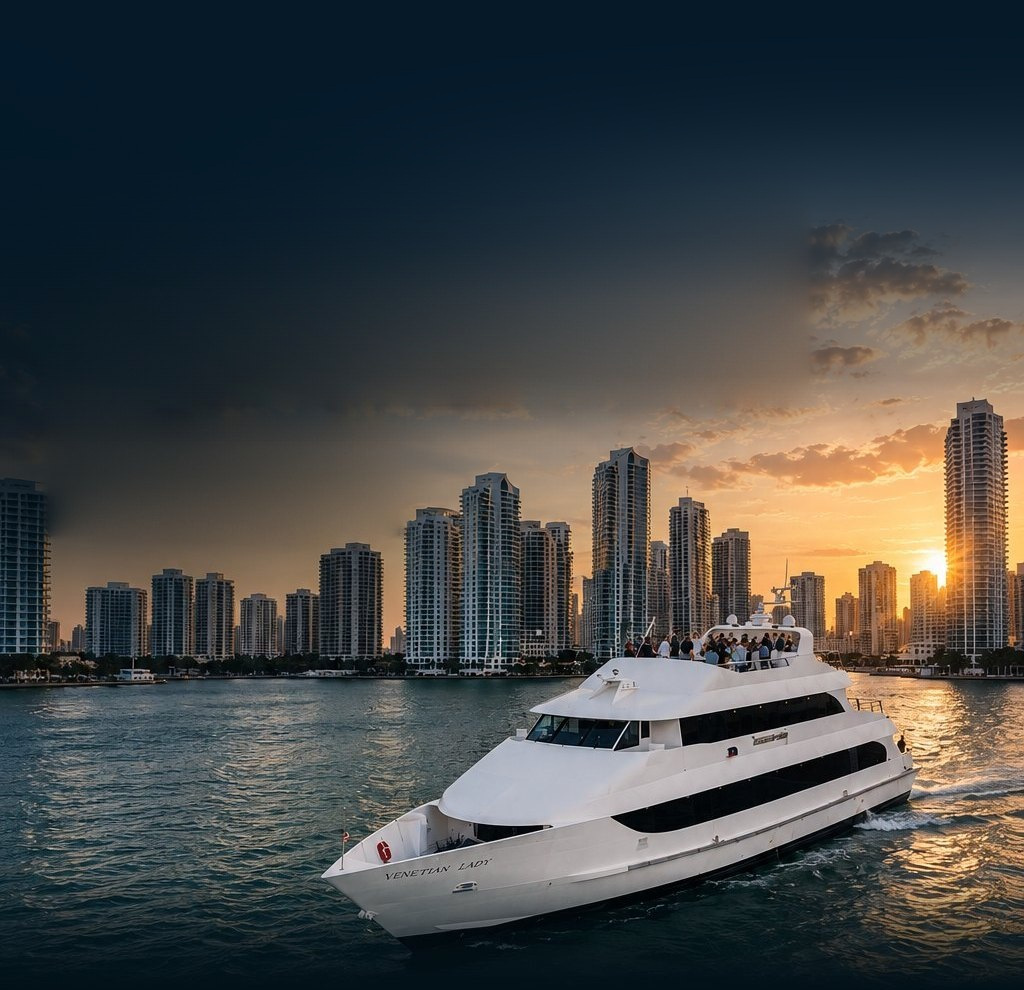
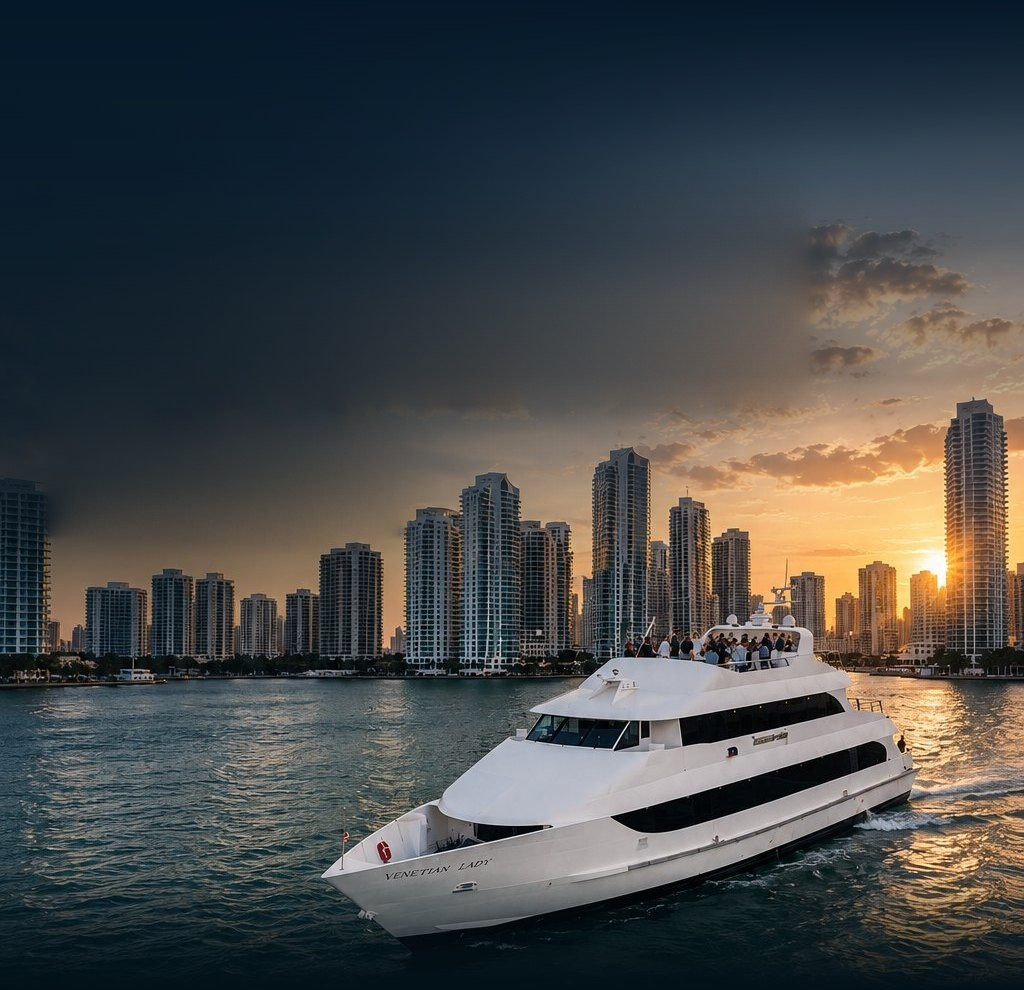
Clean dusk sky, luxe letter-spaced title, single-sentence intro
Claude-Session: https://claude.ai/code/session_01CFfj54dg6tyejLSayjyEJD

Changed region(s): [[0.7188, 0.1212, 1.0, 0.2727]]

diff --git a/assets/email/_founding-invite-cache.html b/assets/email/_founding-invite-cache.html
@@ -1,0 +1,85 @@
+<!doctype html>
+<html lang="en"><head>
+<meta charset="utf-8">
+<meta name="viewport" content="width=device-width,initial-scale=1">
+<meta name="x-apple-disable-message-reformatting">
+<meta name="color-scheme" content="dark">
+<meta name="supported-color-schemes" content="dark">
+<title>The Chief Negotiators — Yacht Party</title>
+<style>
+  body{margin:0;padding:0;background-color:#021118;}
+  /* Type system
+     Display  : Didone serif  (baked into hero; live for headings/sign-off)
+     Label    : letter-spaced sans caps  (eyebrows, city, schedule, highlight)
+     Body     : Georgia serif, editorial  (invitation copy + note) */
+  .serif{font-family:Georgia,'Times New Roman',Times,serif;}
+  .disp{font-family:Didot,'Didot LT STD','Bodoni 72','Bodoni Moda','Bodoni MT',Georgia,'Times New Roman',serif;}
+  .sans{font-family:'Helvetica Neue',Helvetica,Arial,sans-serif;}
+  @media (max-width:620px){
+    .px{padding-left:26px!important;padding-right:26px!important}
+    .t-title{font-size:27px!important;line-height:34px!important}
+    .t-body{font-size:16px!important;line-height:27px!important}
+    .t-venue{font-size:29px!important;line-height:35px!important}
+  }
+</style>
+</head>
+<body style="margin:0;padding:0;background-color:#021118;">
+<div style="display:none;max-height:0;overflow:hidden;opacity:0;mso-hide:all;">Sunday, Oct 18 · Boarding 6:30 PM · The Venetian Lady, Miami. By invitation only.</div>
+<table role="presentation" width="100%" cellpadding="0" cellspacing="0" border="0" bgcolor="#021118" style="background-color:#021118;"><tr><td align="center" style="padding:0;">
+<table role="presentation" width="100%" cellpadding="0" cellspacing="0" border="0" bgcolor="#021118" style="max-width:600px;background-color:#021118;">
+
+  <!-- HERO (single flattened image: photo + lockup + headline + tagline) -->
+  <tr><td style="padding:0;font-size:0;line-height:0;">
+    <img src="https://cncrm.thechiefnegotiators.com/assets/email/event-hero-flat.jpg?v=1018q" width="600" alt="NANOG, but make it Miami — you're invited aboard The Chief Negotiators Yacht Party on The Venetian Lady in Miami" style="display:block;width:100%;max-width:600px;height:auto;border:0;outline:none;">
+  </td></tr>
+
+  <!-- INVITATION -->
+  <tr><td class="px" align="center" style="padding:44px 48px 0;text-align:center;">
+    <div class="sans" style="font-size:12px;letter-spacing:5px;text-transform:uppercase;color:#8FA6AE;line-height:20px;">You&rsquo;re invited aboard</div>
+    <div class="disp t-title" style="font-style:italic;font-size:34px;line-height:42px;color:#D9A45F;padding-top:14px;">The Chief Negotiators<br>Yacht Party</div>
+    <div class="serif t-body" style="font-size:17px;line-height:29px;color:#C7D0D6;padding-top:20px;">Let&rsquo;s kick off NANOG with fellow infrastructure leaders, partners and industry friends for a night of great conversation, drinks and Miami views.</div>
+  </td></tr>
+
+  <!-- gold flourish -->
+  <tr><td align="center" style="padding:34px 0 0;"><div style="width:44px;height:1px;line-height:1px;font-size:0;background-color:#D9A45F;">&nbsp;</div></td></tr>
+
+  <!-- DETAILS -->
+  <tr><td class="px" align="center" style="padding:30px 48px 0;text-align:center;">
+    <div class="disp t-venue" style="font-size:34px;line-height:40px;color:#F4F1EA;">The Venetian Lady</div>
+    <div class="sans" style="font-size:12px;letter-spacing:4px;text-transform:uppercase;color:#8FA6AE;line-height:18px;padding-top:9px;">Miami, Florida</div>
+    <div class="serif" style="font-size:19px;line-height:26px;color:#F4F1EA;padding-top:20px;">Sunday, October 18, 2026</div>
+    <div class="sans" style="font-size:13px;letter-spacing:1px;line-height:22px;color:#9BA6AC;padding-top:9px;">Boarding&nbsp;6:30&nbsp;PM<span style="color:#D9A45F;">&nbsp;&nbsp;&middot;&nbsp;&nbsp;</span>Cruising&nbsp;7:00&ndash;10:30&nbsp;PM</div>
+    <div class="sans" style="font-size:12px;letter-spacing:4px;text-transform:uppercase;color:#D9A45F;line-height:18px;padding-top:18px;font-weight:bold;">Open bar all evening</div>
+  </td></tr>
+
+  <!-- divider -->
+  <tr><td style="padding:36px 48px 0;"><div style="height:1px;line-height:1px;font-size:0;background-color:#16303C;">&nbsp;</div></td></tr>
+
+  <!-- RSVP -->
+  <tr><td align="center" style="padding:38px 24px 0;">
+    <table role="presentation" cellpadding="0" cellspacing="0" border="0" style="border-collapse:separate;"><tr>
+      <td align="center" bgcolor="#D9A45F" style="background-color:#D9A45F;border-radius:2px;">
+        <a href="https://cncrm.thechiefnegotiators.com/rsvp.html?e=venetian-lady-2026-10-18&first={{first_name}}&last={{last_name}}&email={{email}}&company={{company}}" target="_blank" class="sans" style="display:block;padding:18px 66px;font-size:14px;font-weight:bold;letter-spacing:5px;text-transform:uppercase;text-decoration:none;color:#021118;">RSVP</a>
+      </td>
+    </tr></table>
+  </td></tr>
+
+  <!-- NANOG register -->
+  <tr><td align="center" style="padding:26px 24px 0;text-align:center;">
+    <a href="https://nanog.org/events/nanog-98/register/" target="_blank" class="sans" style="font-size:14px;letter-spacing:1px;text-decoration:none;"><span style="color:#D9A45F;border-bottom:1px solid #6B5427;padding-bottom:4px;">Register for NANOG&nbsp;98&nbsp;&nbsp;&rarr;</span></a>
+  </td></tr>
+  <tr><td class="px" align="center" style="padding:22px 56px 0;text-align:center;">
+    <div class="serif" style="font-style:italic;font-size:15px;line-height:25px;color:#8B969C;">Attending NANOG or not, you&rsquo;re welcome aboard &mdash; and if you can make the meeting, I&rsquo;d love for you to register and join us for the week.</div>
+  </td></tr>
+
+  <!-- SIGN-OFF -->
+  <tr><td class="px" align="center" style="padding:40px 48px 46px;text-align:center;">
+    <div class="disp" style="font-size:23px;line-height:30px;color:#F4F1EA;">See you on the water,</div>
+    <div class="disp" style="font-size:26px;line-height:32px;color:#F4F1EA;padding-top:8px;">Amanda Ferrer</div>
+    <div class="sans" style="font-size:11px;letter-spacing:4px;text-transform:uppercase;color:#7E8990;line-height:18px;padding-top:12px;">Founder&nbsp;&middot;&nbsp;The Chief Negotiators</div>
+  </td></tr>
+
+</table>
+<table role="presentation" width="100%" cellpadding="0" cellspacing="0" border="0" style="max-width:600px;"><tr><td align="center" class="sans" style="padding:22px 20px 30px;font-size:11px;line-height:17px;color:#63727A;text-align:center;">The Chief Negotiators&nbsp;&middot;&nbsp;St. Petersburg, Florida<br>You&rsquo;re receiving this because we&rsquo;ve worked together or corresponded. <a href="{{unsubscribe_url}}" style="color:#8B7338;text-decoration:underline;">Unsubscribe</a></td></tr></table>
+</td></tr></table>
+</body></html>
